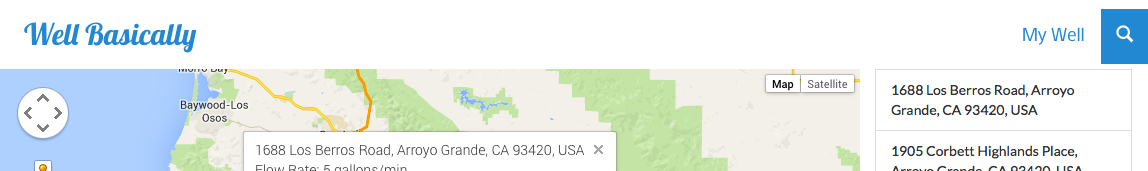
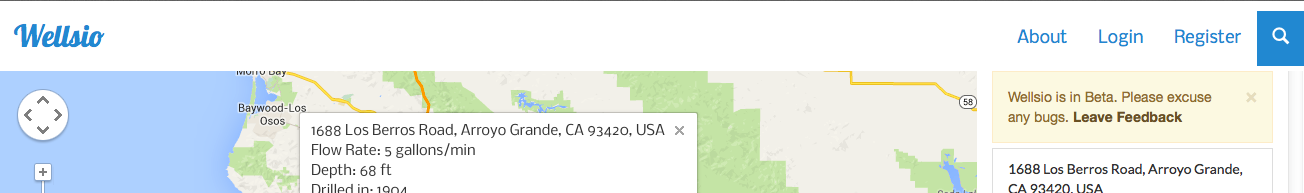
final commit before deploy; bugs cleaned up

diff --git a/app/views/emails/verify.blade.php b/app/views/emails/verify.blade.php
@@ -1,18 +1,15 @@
 <!DOCTYPE html>
 <html lang="en-US">
     <head>
+        <link href='http://fonts.googleapis.com/css?family=Nobile:400,700' rel='stylesheet' type='text/css'>
         <meta charset="utf-8">
     </head>
-    <body>
-        <h3>Verify Your Email Address</h3>
-
-        <div>
-            <p>
-            Thanks for creating an account with the verification demo app.
-            Please follow the link below to verify your email address
-            {{ URL::to('confirm/' . $confirmation_code) }}.<br/>
-            </p>
-        </div>
-
+    <body style="background-color:#428bca; padding:50px;">
+        <h1 style="@import url(http://fonts.googleapis.com/css?family=Lobster);color:white;font-family:'Lobster',sans-serif;">Wellsio</h1>
+        <hr>
+        <h3 style="color:white;font-family:sans-serif;">Verify your Email Address</h3>
+        <p style="color:white">Follow this link to confirm your address.<a href=" {{ URL::to('confirm/' . $confirmation_code) }}"> {{ URL::to('confirm/' . $confirmation_code) }}</a></p>
+        <br>
+        <p style="color:white"><a style="color:white" href="{{ URL::to('/') }}">Wellsio</a></p>
     </body>
 </html>

diff --git a/app/views/layout.blade.php b/app/views/layout.blade.php
@@ -2,7 +2,7 @@
 <html>
 
 <head>
-<title>Well Basically || The Well Database</title>
+<title>Wellsio || The Crowdsourced Well Database</title>
     <!-- Latest compiled and minified CSS -->
 <link rel="stylesheet" href="https://maxcdn.bootstrapcdn.com/bootstrap/3.2.0/css/bootstrap.min.css">
 <link rel="stylesheet" href="../../css/style.css">
@@ -65,6 +65,7 @@
 
             @if(Auth::check())
             <li><a href="{{ action('HomeController@showCreate') }}">My Well</a></li>
+            <li><a href="{{ action('HomeController@doLogout') }}">Logout</a></li>
             @else
             <li><a href="{{ URL::to('about') }}">About</a></li>
             <li><a href="{{ action('HomeController@showLogin') }}"id="login-link">Login</a></li>
@@ -83,7 +84,7 @@
 @yield('content')
 @if(!Request::is('/') || Request::is('about'))
 <div class="navbar-fixed-bottom footer">
-        <p class="navbar-text">&copy 2014 Well Basically</p>
+        <p class="navbar-text">&copy 2014 Wellsio</p>
         <p class="navbar-text"><a class="white" href="{{ action('HomeController@showFeedback') }}">Leave Feedback</a></p>
 </div>
 @endif

diff --git a/app/views/emails/comment.blade.php b/app/views/emails/comment.blade.php
@@ -5,7 +5,7 @@
         <meta charset="utf-8">
     </head>
     <body style="background-color:#428bca; padding:50px;">
-        <h1 style="@import url(http://fonts.googleapis.com/css?family=Lobster);color:white;font-family:'Lobster',sans-serif;">Well Basically</h1>
+        <h1 style="@import url(http://fonts.googleapis.com/css?family=Lobster);color:white;font-family:'Lobster',sans-serif;">Wellsio</h1>
         <hr>
         <h3 style="color:white;font-family:sans-serif;">{{$user_name}} commented on your well!</h3>
         <p style="color:white">Here's what they said:</p>
@@ -15,6 +15,6 @@
         </div>
         <p style="color:white">Check it out here: {{ URL::to('well/' . $address_id) }}</p>
         <br>
-        <p style="color:white"><a style="color:white" href="{{ URL::to('/') }}">Well Basically</a></p>
+        <p style="color:white"><a style="color:white" href="{{ URL::to('/') }}">Wellsio</a></p>
     </body>
 </html>

diff --git a/app/views/index.blade.php b/app/views/index.blade.php
@@ -284,7 +284,7 @@ google.maps.event.addDomListener(window, 'load', initialize);
 <div class="col-sm-3 movedown70 scroll">
 <div class="alert alert-warning alert-dismissible" role="alert">
   <button type="button" class="close" data-dismiss="alert"><span aria-hidden="true">&times;</span><span class="sr-only">Close</span></button>
-  Well Basically is in Beta. Please excuse any bugs. <a href="{{ action('HomeController@showFeedback') }}" class="alert-link">Leave Feedback</a>
+  Wellsio is in Beta. Please excuse any bugs. <a href="{{ action('HomeController@showFeedback') }}" class="alert-link">Leave Feedback</a>
 </div>
 @if (Session::has('message'))
 <div class="alert alert-success alert-dismissible message"  id="success-alert" role="alert">

diff --git a/app/views/about.blade.php b/app/views/about.blade.php
@@ -5,10 +5,10 @@
 
 <div class="col-md-12 bg1">
 	<div class="jumbotron movedownless big-p">
-		<h1 class="lobster white big-text">What is Well Basically?</h1>
+		<h1 class="lobster white big-text">What is Wellsio?</h1>
 		<div class="col-md-8 col-md-offset-2 big-p">
 		<p class="white big-p">
-			Well Basically is a crowdsourced well database. Owners 
+			Wellsio is a crowdsourced well database. Owners 
 			of wells add their stats, and others can view their stats. Its basically Zillow for wells.
 		</p>
 		<a class="btn btn-info" href="{{ action('HomeController@showRegister') }}">Sweet, Let's get Started!</a>

diff --git a/app/controllers/HomeController.php b/app/controllers/HomeController.php
@@ -285,7 +285,7 @@ class HomeController extends BaseController {
 
 			if (Auth::attempt(array('email' => $email, 'password' => $password, 'confirmed'=>1)) ){
 
-				Session::Flash('message','You have successfully logged in.');
+				Session::Flash('message','Welcome back!');
 				return Redirect::action('HomeController@index');
 			}
 
